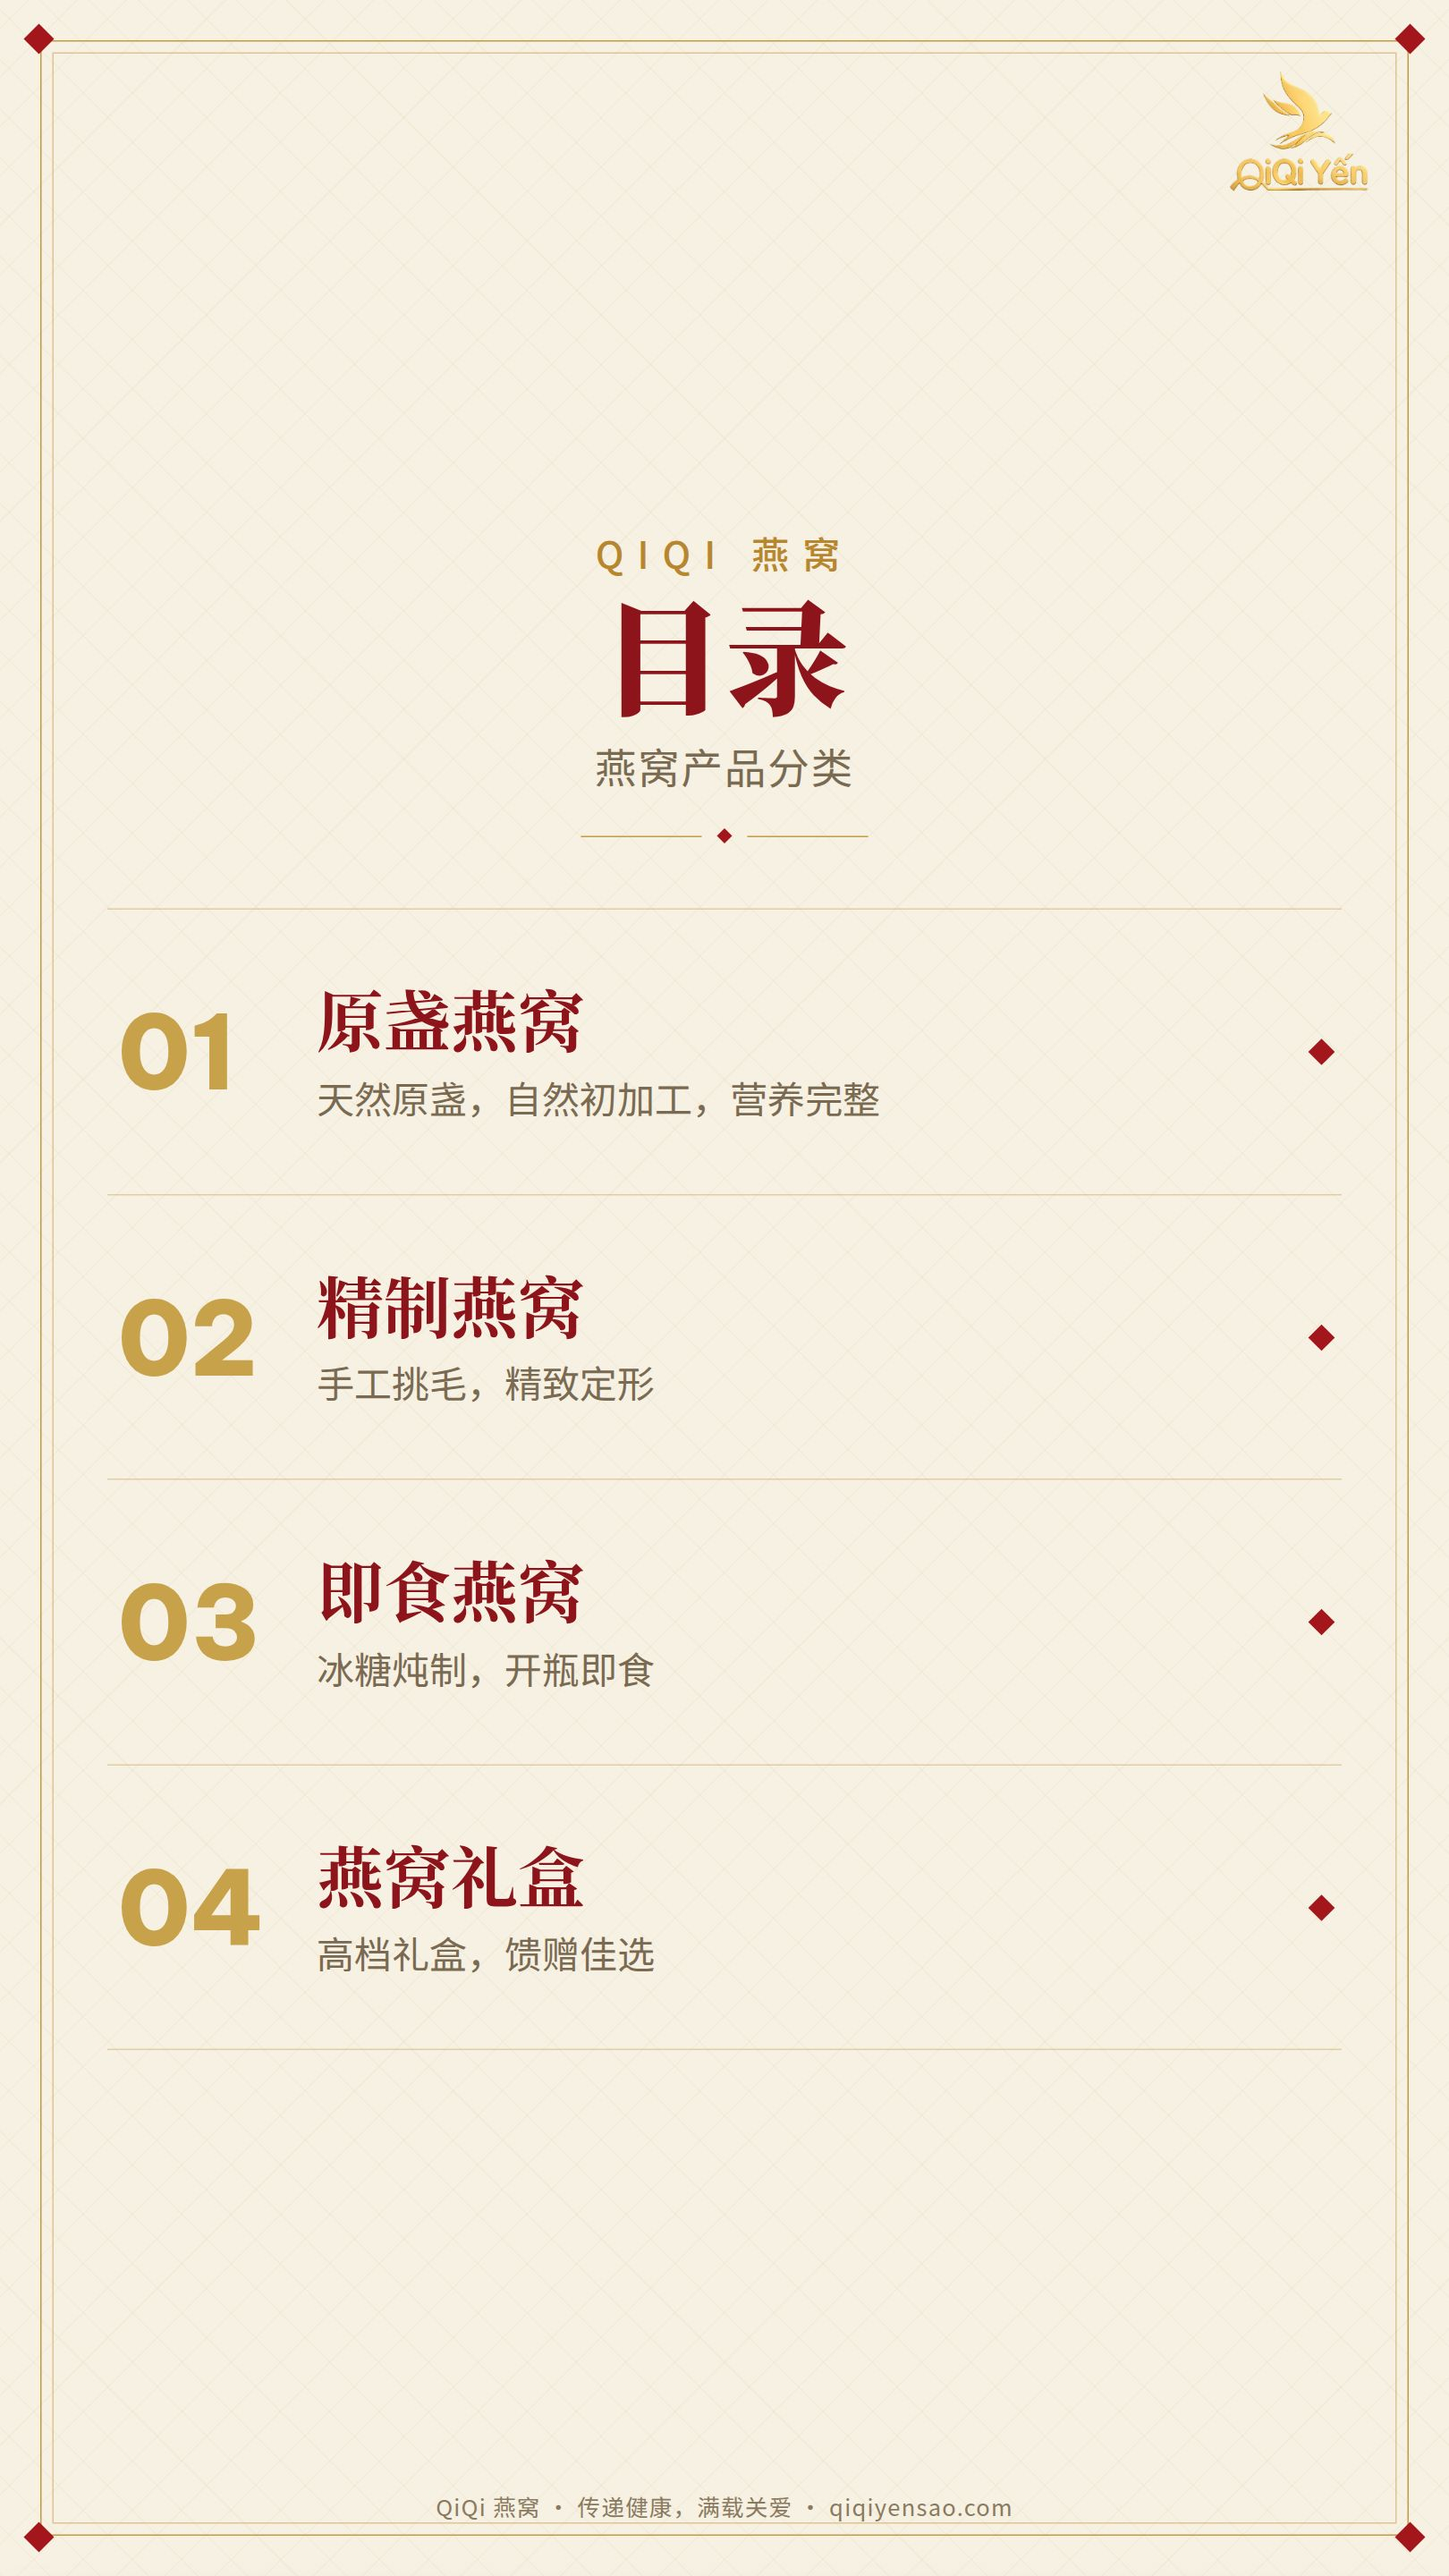
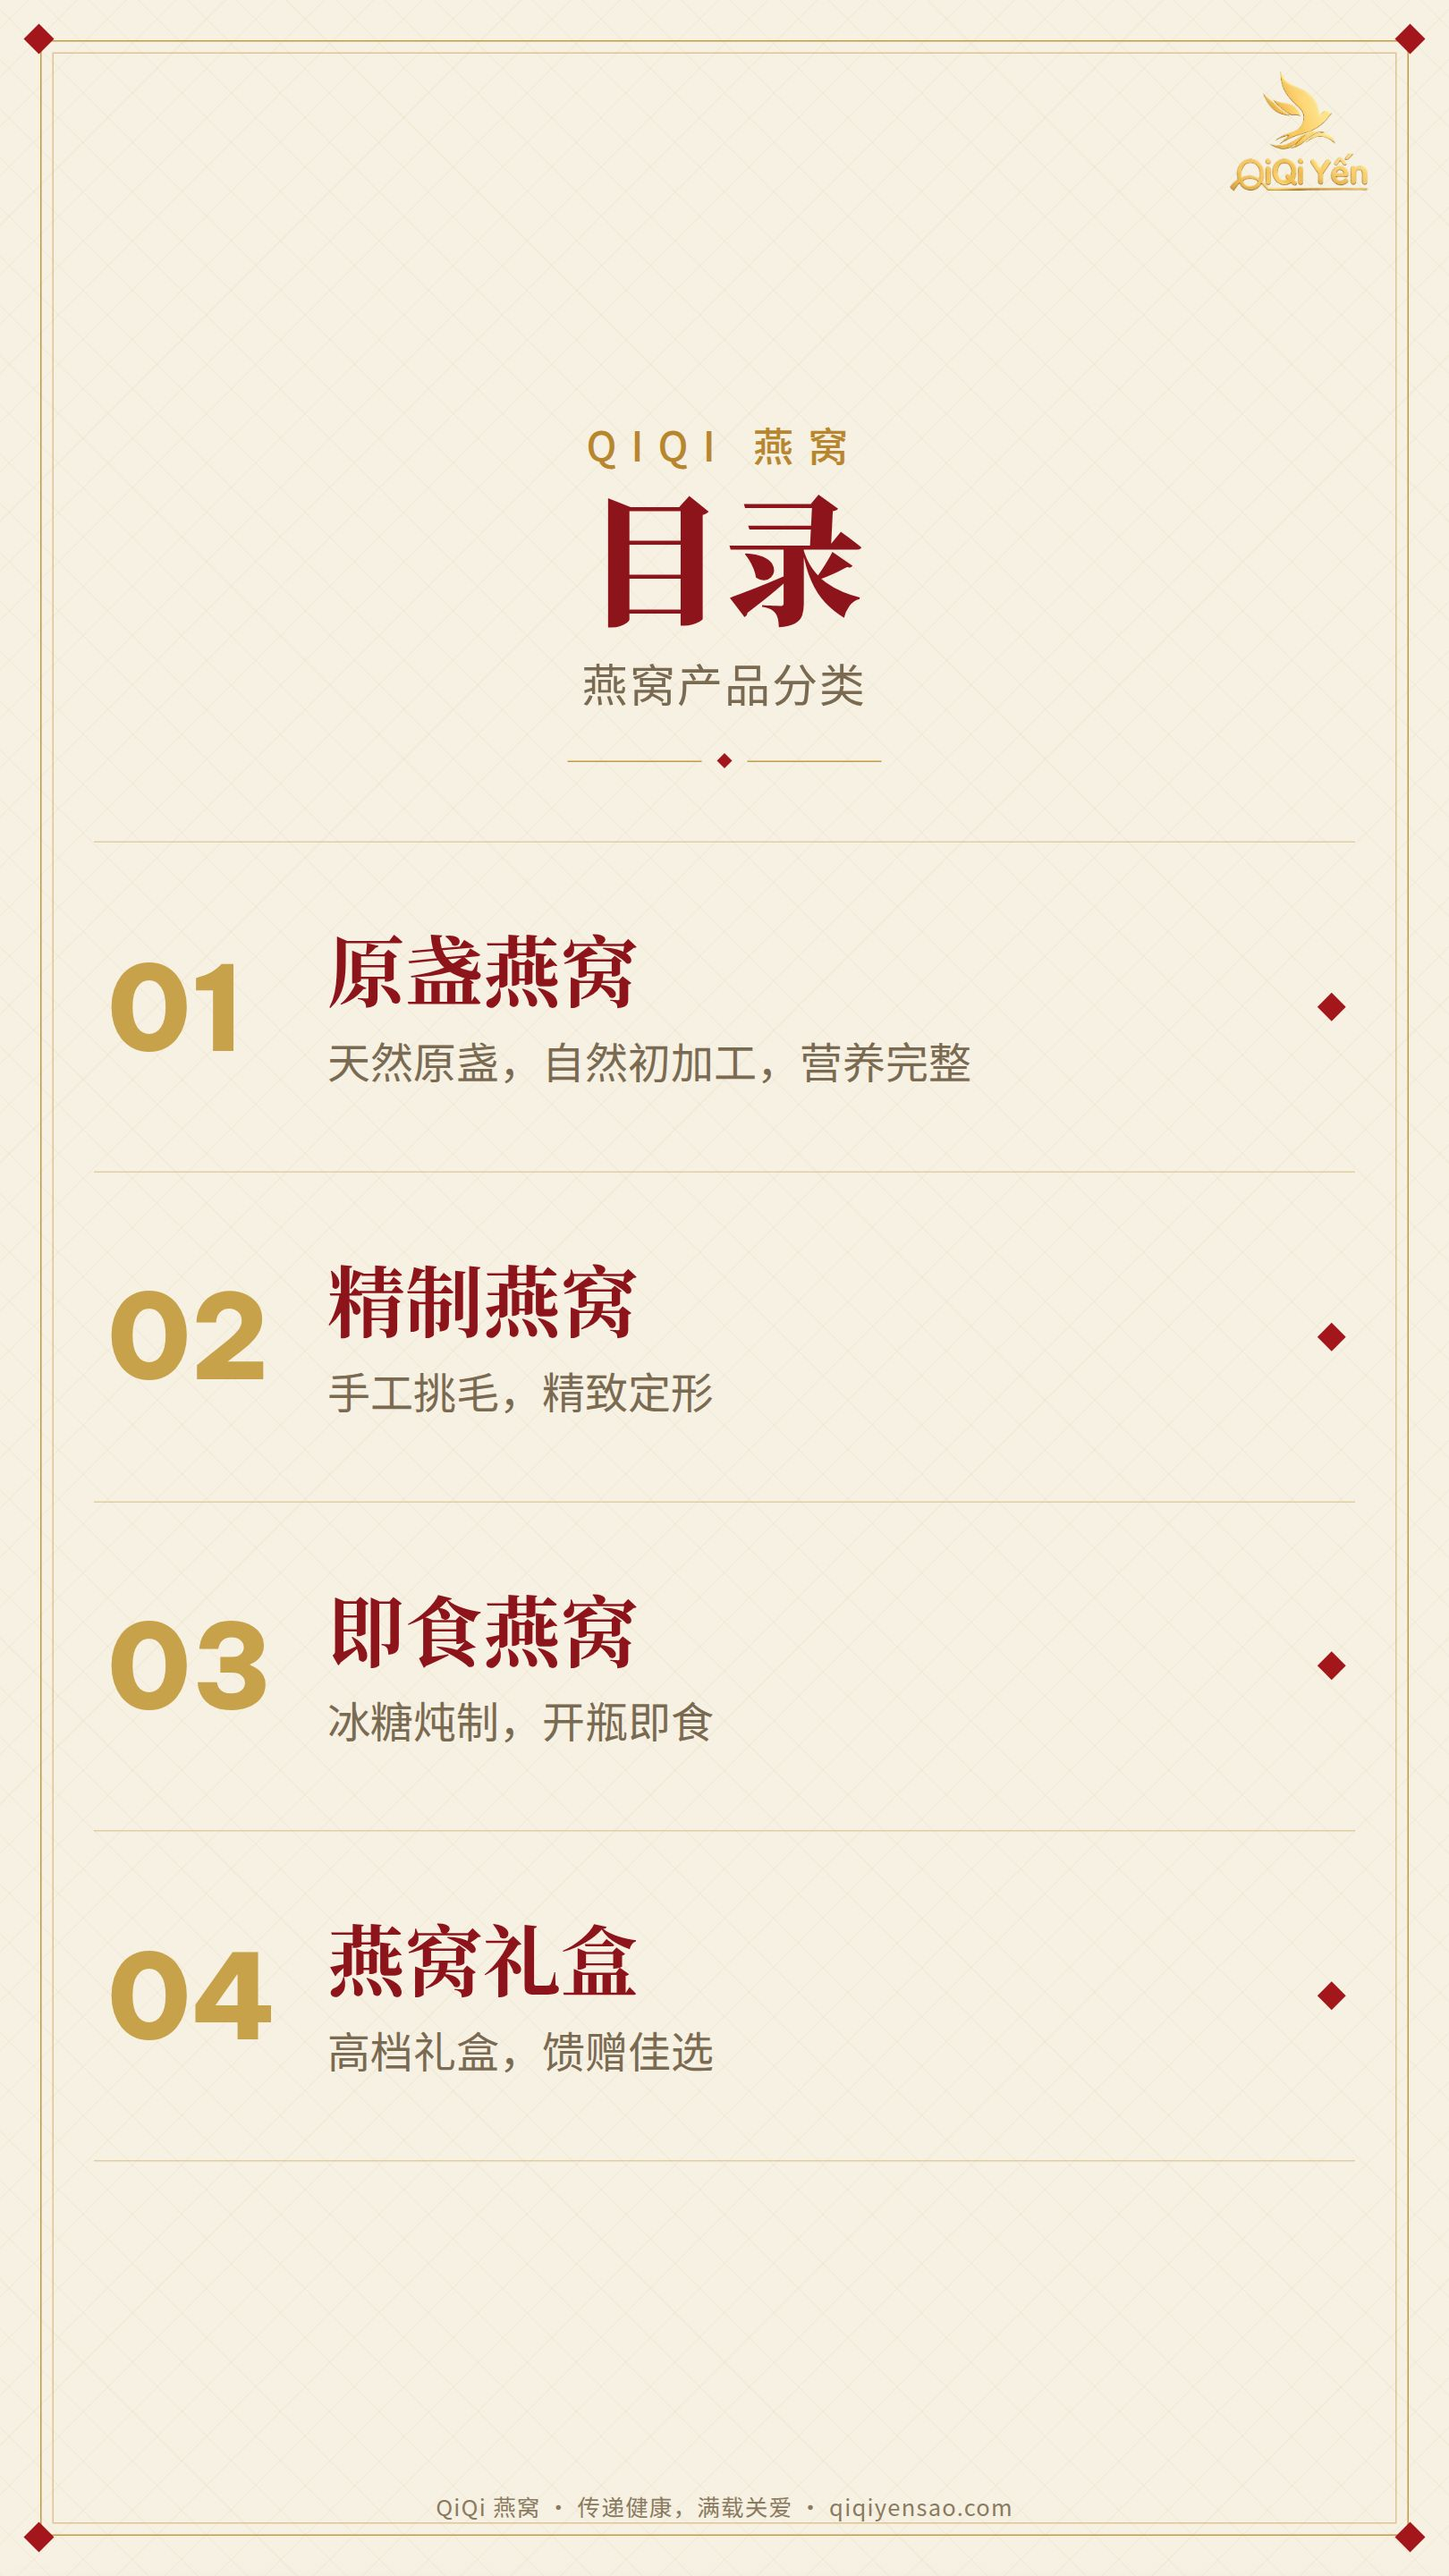
Bigger phone type on cover/intro/TOC; fill empty space
- Cover: larger seal + much bigger title/kicker/bullets/tagline/contact,
  distributed (space-evenly) to fill the page
- Intro (Thư Ngỏ): bigger headings/body/certs, spread to remove empty space
- TOC: larger title and rows
- All pages verified to still fit within 9:16
- Re-render web/pages-9x16

Claude-Session: https://claude.ai/code/session_01UhNsoZ8GK1i7GJy5KeDZ4B

diff --git a/site/styles-portrait.css b/site/styles-portrait.css
@@ -80,54 +80,55 @@
 .portrait .cover-layout {
   flex-direction: column;
   align-items: center;
-  justify-content: center;       /* centre seal + text block; footer sits below */
+  justify-content: space-evenly;  /* spread seal + text to fill the page */
   text-align: center;
-  padding: 70px 90px 210px;       /* reserve the lower zone for the fixed footer */
-  gap: 40px;
+  padding: 60px 80px 196px;        /* reserve the lower zone for the fixed footer */
+  gap: 0;
 }
 .portrait .cover-divider { display: none; }
 .portrait .seal-wrap { width: auto; }
-.portrait .seal { width: 520px; height: 520px; }
-.portrait .seal img { width: 340px; height: 340px; }
+.portrait .seal { width: 580px; height: 580px; }
+.portrait .seal img { width: 384px; height: 384px; }
 .portrait .cover-main { flex: none; align-items: center; text-align: center; }
-.portrait .cover-kicker { font-size: 21px; letter-spacing: .32em; }
-.portrait .cover-title { font-size: 120px; margin-top: 26px; }
-.portrait.cn .cover-title, .portrait .cn .cover-title { font-size: 130px; }
-.portrait .cover-rule { margin: 30px auto 0; width: 96px; }
-.portrait .cover-bullets { align-items: center; gap: 18px; margin-top: 34px; }
-.portrait .cover-bullet .txt { font-size: 23px; }
-.portrait .cover-tagline { font-size: 30px; margin-top: 34px; }
-.portrait .cover-footer { left: 110px; right: 110px; bottom: 70px; }
-.portrait .cover-ribbon { font-size: 17px; }
-.portrait .cover-contact { font-size: 25px; gap: 26px; margin-top: 16px; }
-.portrait .cover-contact .num img { width: 36px; height: 24px; }
-.portrait .cover-org { font-size: 17px; margin-top: 14px; }
+.portrait .cover-kicker { font-size: 30px; letter-spacing: .3em; }
+.portrait .cover-title { font-size: 138px; margin-top: 30px; }
+.portrait.cn .cover-title, .portrait .cn .cover-title { font-size: 148px; }
+.portrait .cover-rule { margin: 38px auto 0; width: 124px; }
+.portrait .cover-bullets { align-items: center; gap: 26px; margin-top: 42px; }
+.portrait .cover-bullet .txt { font-size: 36px; }
+.portrait .cover-bullet .gem { width: 12px; height: 12px; }
+.portrait .cover-tagline { font-size: 46px; margin-top: 44px; }
+.portrait .cover-footer { left: 90px; right: 90px; bottom: 64px; }
+.portrait .cover-ribbon { font-size: 24px; }
+.portrait .cover-contact { font-size: 36px; gap: 30px; margin-top: 20px; }
+.portrait .cover-contact .num img { width: 50px; height: 33px; }
+.portrait .cover-org { font-size: 24px; margin-top: 18px; }
 
 /* ── Intro / TOC / Thanks: same vertical layout, scaled up & centred ─────── */
-.portrait .intro-layout { padding: 120px 110px; justify-content: center; }
-.portrait .intro-kicker { font-size: 28px; }
-.portrait .intro-heading { font-size: 66px; }
-.portrait .intro-salutation { font-size: 36px; margin-top: 16px; }
-.portrait .intro-body { font-size: 33px; line-height: 1.66; max-width: 900px; margin-top: 18px; }
-.portrait .cn .intro-body, .portrait.cn .intro-body { line-height: 1.78; }
-.portrait .intro-rule { margin-top: 28px; } .portrait .intro-rule .seg { width: 90px; }
-.portrait .intro-cert-label { font-size: 26px; margin-top: 34px; }
+.portrait .intro-layout { padding: 80px 92px; justify-content: space-evenly; }
+.portrait .intro-kicker { font-size: 30px; }
+.portrait .intro-heading { font-size: 70px; }
+.portrait .intro-salutation { font-size: 38px; margin-top: 16px; }
+.portrait .intro-body { font-size: 34px; line-height: 1.58; max-width: 920px; margin-top: 18px; }
+.portrait .cn .intro-body, .portrait.cn .intro-body { line-height: 1.7; }
+.portrait .intro-rule { margin-top: 28px; } .portrait .intro-rule .seg { width: 96px; }
+.portrait .intro-cert-label { font-size: 28px; margin-top: 32px; }
 .portrait .certs { gap: 48px; margin-top: 30px; }
-.portrait .cert .frame img { height: 380px; }
-.portrait .cert .cap { font-size: 24px; }
+.portrait .cert .frame img { height: 360px; }
+.portrait .cert .cap { font-size: 26px; }
 
-.portrait .toc-layout { padding: 110px 100px; }
-.portrait .toc-kicker { font-size: 28px; }
-.portrait .toc-title { font-size: 92px; }
-.portrait .toc-subtitle { font-size: 31px; margin-top: 14px; }
-.portrait .toc-rule { margin-top: 26px; } .portrait .toc-rule .seg { width: 90px; }
-.portrait .toc-list { width: 920px; margin-top: 50px; }
-.portrait .toc-row { padding: 52px 8px; gap: 40px; }
-.portrait .toc-no { font-size: 76px; width: 108px; }
-.portrait .toc-name { font-size: 52px; }
-.portrait .cn .toc-name, .portrait.cn .toc-name { font-size: 50px; }
-.portrait .toc-desc { font-size: 28px; margin-top: 10px; }
-.portrait .toc-row .gem { width: 14px; height: 14px; }
+.portrait .toc-layout { padding: 96px 96px; justify-content: center; }
+.portrait .toc-kicker { font-size: 30px; }
+.portrait .toc-title { font-size: 104px; }
+.portrait .toc-subtitle { font-size: 34px; margin-top: 16px; }
+.portrait .toc-rule { margin-top: 30px; } .portrait .toc-rule .seg { width: 100px; }
+.portrait .toc-list { width: 940px; margin-top: 56px; }
+.portrait .toc-row { padding: 60px 10px; gap: 44px; }
+.portrait .toc-no { font-size: 88px; width: 120px; }
+.portrait .toc-name { font-size: 60px; }
+.portrait .cn .toc-name, .portrait.cn .toc-name { font-size: 58px; }
+.portrait .toc-desc { font-size: 32px; margin-top: 12px; }
+.portrait .toc-row .gem { width: 15px; height: 15px; }
 
 .portrait .thanks-layout { padding: 120px 110px; }
 .portrait .thanks-seal { width: 270px; height: 270px; margin-bottom: 34px; }
